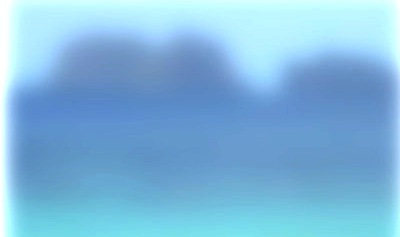
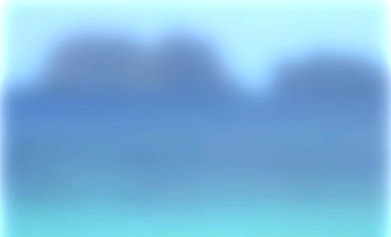
pullllling

Changed region(s): [[0.0, 0.0, 0.0614, 1.0]]

diff --git a/www/groups.html b/www/groups.html
@@ -19,13 +19,13 @@
 
     <div style="margin:0px auto;width:140px;height:30px;margin-top:10px;border-radius:5px;">
 
-        <div style="float:left;width:68px;height:30px;background:#34495e;border-bottom-left-radius:5px;border-top-left-radius:5px;border: 1px solid #34495e;">
-            <i style="color:white;" class="icon-user"></i>
-        </div>
+        <a href="contacts.html" style="float:left;width:68px;height:30px;background:;border-bottom-left-radius:5px;border-top-left-radius:5px;border: 1px solid #34495e;">
+            <i style="" class="icon-user"></i>
+        </a>
 
 
-        <a href="groups.html"  style="float:left;width:68px;height:30px;background:;border-bottom-right-radius:5px;border-top-right-radius:5px;border: 1px solid #bdc3c7;text-decoration:none;">
-            <i style="margin-left:23px;" class="icon-group"></i>
+        <a style="float:left;width:68px;height:30px;background:#34495e;border-bottom-right-radius:5px;border-top-right-radius:5px;border: 1px solid #34495e;">
+            <i style="margin-left:23px;color:white;" class="icon-group"></i>
         </a>
 
     </div>
@@ -34,34 +34,11 @@
 
 
 
-	<div class="todo" style="margin-top:60px;">
-	<a href="newtodo.html?user=Tariq" style="text-decoration:none;color:#34495e;" >
-		<div style="background:#34495e;" class="contactlogo">
-			<p>Me</p>
-		</div>
-		<div class="todotitle">
-			<p>Te Tariq</p>
-		</div>
-		<div class="todoowner">
-			<p>07711086683</p>
-		</div>
-	</a>
+<div style="width:100%;margin-top:110px;">
+	<div style="margin:0px auto;">
+		<h1> Groups coming soon... </h1>
 	</div>
-
-
-	<div class="todo" style="margin-top:0px;">
-	<a href="newtodo.html?user=Sam" style="text-decoration:none;color:#34495e;" >
-		<div class="contactlogo">
-			<p>Sa<p/>
-		</div>
-		<div class="todotitle">
-			<p>Sam Atkinson</p>
-		</div>
-		<div class="todoowner">
-			<p>07538744469</p>
-		</div>
-	</a>
-	</div>
+</div>
 
 
 <div class="bottomnav" style="position:fixed;bottom:0;left:0;background:#ecf0f1;width:100%;height:50px;opacity:0.9;">
@@ -74,7 +51,6 @@
     <a href="contacts.html" style="float:left;width:50%;height:60px;text-decoration:none;background:#34495e;" >
         <i style="color:white;" class="icon-plus"></i>
     </a>
-
 
 </div>
 

diff --git a/www/login.html b/www/login.html
@@ -14,7 +14,7 @@
 <body>
 <script src="js/jquery.js"></script>
 
-<div style="width:100%;height:100%;background:#34495e;">
+<div style="width:640px;height:960px;background:#34495e;">
 
 
     <a href="contactview.html" style="position:fixed;top:50%;left:50%;margin-left:-70px;margin-top:-90px;text-decoration:none;">
@@ -23,29 +23,13 @@
         </div>
     </a>
 
-</div>
-
-<div style="position:fixed;bottom:30%;left:15%;width:100%;height:50px;opacity:0.9;">
-
-	<form id="login">
-        <div style="height:50px;width:70%;background:none;font-size:25px;">
-            <input type="text" id="username" placeholder="Username"
-                   style="background:none;border:none;height:100%;width:100%;font-size:20px;text-align:center;border-bottom:1px solid #2c3e50;">
-            <button type="submit" style="width:10px;margin-left:35%;height:60px;border:0;background-color:#2c3e50;margin-top:10px;border-radius:100px;">
-                <p style="font-colour:white; font-size:20px; font-weight:bold;margin-top:px;color:white;">Go<p>
-            </button>
+    <a href="contactview.html" style="position:fixed;top:60%;left:40%;margin-left:-70px;margin-top:-90px;text-decoration:none;">
+        <div class="contactlogo" style="background:none;width:auto;">
+            <p style="font-size:30px;margin-top:60px;margin-left:10px;font-weight:normal;">Delegate Your Life<p/>
         </div>
-    </form>
-
+    </a>
 
 </div>
-<script type="text/javascript">
-    $(document).ready(function () {
-        $("#login").submit(function (e) {
-            e.preventDefault(); //prevent default form submit
-            localStorage['user'] = $('#username').val()
-            window.location.replace('agenda.html');
-        });})
-</script>
+
 </body>
 </html>

diff --git a/www/agenda.html b/www/agenda.html
@@ -51,7 +51,7 @@
 
 
 <div class="stats" style="margin-top:50px;height:165px;width:100%;">
-<img src="blur2.jpg" style="z-index:-10;width:110%;height:100%;margin-left:-5%;margin-top:0px;opacity:0.65;"/>
+<img src="blur2.jpg" style="z-index:-10;width:100%;height:100%;margin-top:0px;opacity:0.65;"/>
 
     <div class="todaystatcomplete" style="float:left;height:120px;width:100%;background:;margin-top:-160px;">
         <p id="todo" style="font-size:100px;font-weight:lighter;text-align:center;margin:0px;"></p>
@@ -83,13 +83,6 @@
             </div>
             <div class="todoowner">
                 <p>{{from}}</p>
-            </div>
-            <div class="tododate">
-                <p class="time">09:30</p>
-
-                <p class="day">18</p>
-
-                <p class="month">Oct</p>
             </div>
 
         </div>

diff --git a/www/agendacompleted.html b/www/agendacompleted.html
@@ -51,7 +51,7 @@
 
 
 <div class="stats" style="margin-top:50px;height:165px;width:100%;">
-<img src="blur2.jpg" style="z-index:-10;width:110%;height:100%;margin-left:-5%;margin-top:0px;opacity:0.65;"/>
+<img src="blur2.jpg" style="z-index:-10;width:100%;height:100%;margin-top:0px;opacity:0.65;"/>
 
     <div class="todaystatcomplete" style="float:left;height:120px;width:100%;background:;margin-top:-160px;">
         <p id="todo" style="font-size:100px;font-weight:lighter;text-align:center;margin:0px;"></p>
@@ -83,13 +83,6 @@
             </div>
             <div class="todoowner">
                 <p>{{from}}</p>
-            </div>
-            <div class="tododate">
-                <p class="time">09:30</p>
-
-                <p class="day">18</p>
-
-                <p class="month">Oct</p>
             </div>
 
         </div>

diff --git a/www/getwaiting.html b/www/getwaiting.html
@@ -65,7 +65,7 @@
 
 
 <div class="stats" style="margin-top:50px;height:165px;width:100%;">
-<img src="blur2.jpg" style="z-index:-10;width:110%;height:100%;margin-left:-5%;margin-top:0px;opacity:0.65;"/>
+<img src="blur2.jpg" style="z-index:-10;width:100%;height:100%;margin-top:0px;opacity:0.65;"/>
 
     <div class="todaystatcomplete" style="float:left;height:120px;width:100%;background:;margin-top:-160px;">
         <p id="todo" style="font-size:100px;font-weight:lighter;text-align:center;margin:0px;"></p>

diff --git a/www/css/index.css b/www/css/index.css
@@ -140,17 +140,17 @@ h1 {
 }
 
 .todotitle {
-    float:left;height:36px;width:50%;margin:7px;
+    float:left;height:36px;width:65%;margin:7px;margin-top:12px;
 }
 
 .todotitle p {
     margin-top:0px;
-    font-size:17px;
+    font-size:20px;
     font-weight:bold;line-height: 16px;
 }
 
 .todoowner {
-    float:left;height:20px;width:50%;margin:7px;margin-top:-7px;
+    float:left;height:20px;width:65%;margin:7px;margin-top:-14px;
 }
 
 .todoowner p {

diff --git a/www/todoview.html b/www/todoview.html
@@ -72,13 +72,6 @@
     <div class="todoowner" style="width:35%;">
         <p>{{user}}</p>
     </div>
-    <div class="tododate">
-        <p class="time">09:30</p>
-
-        <p class="day">18</p>
-
-        <p class="month">Oct</p>
-    </div>
 
 </script>
 
